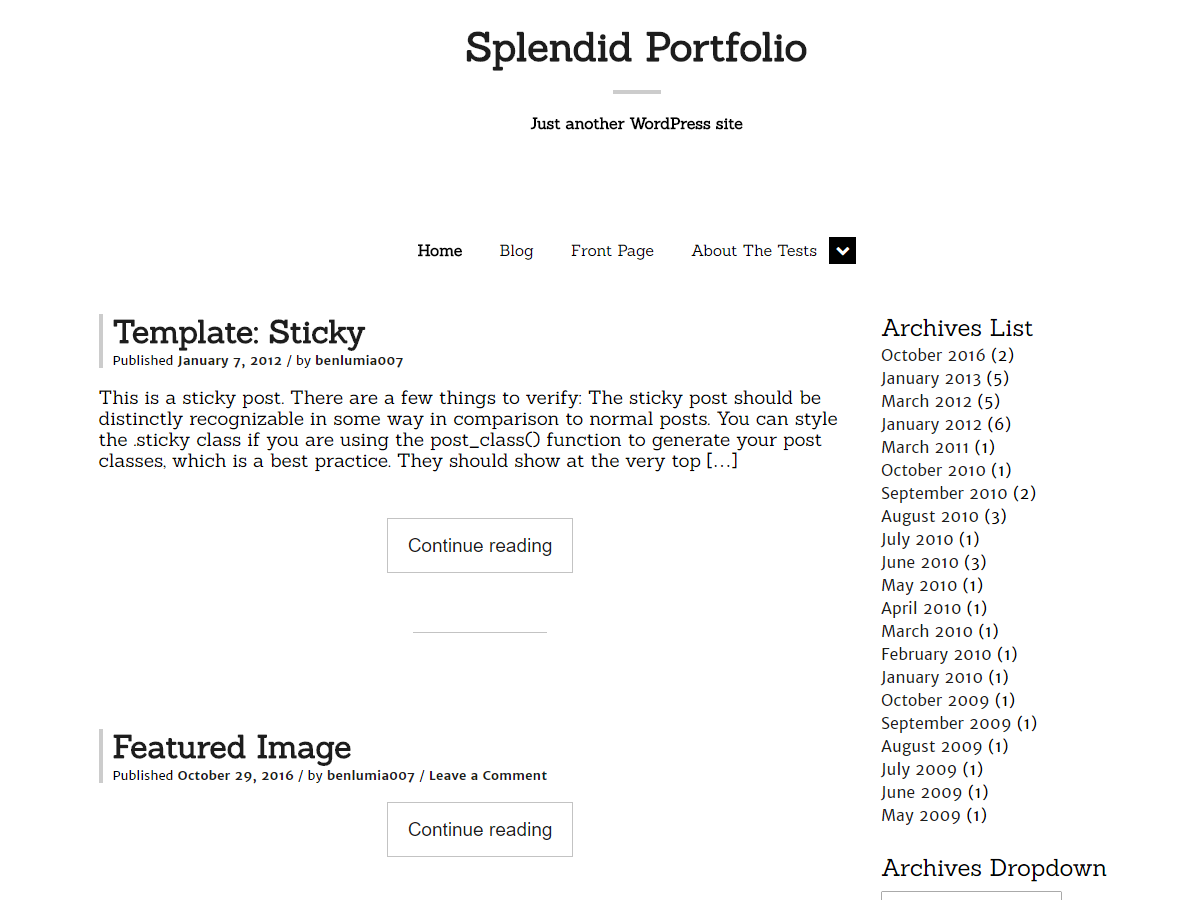
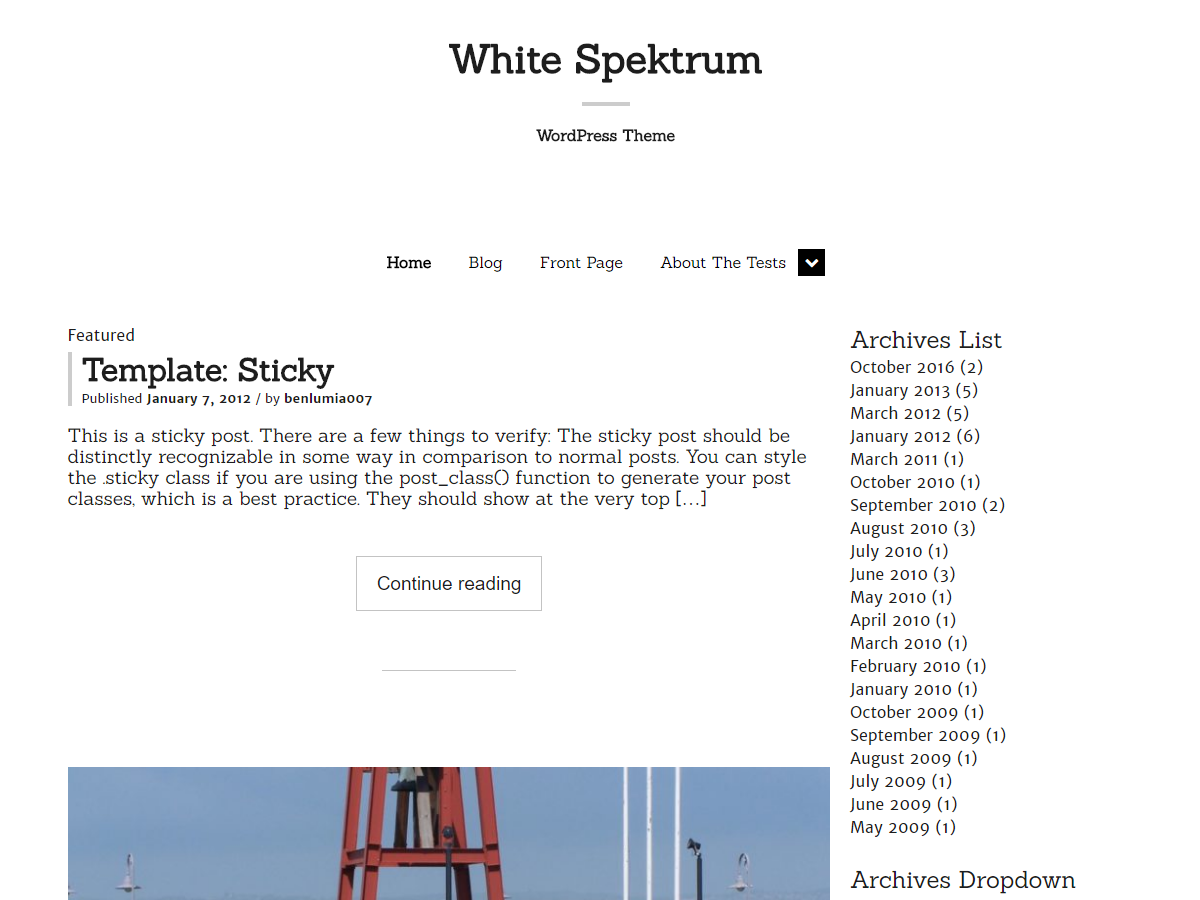
Version: 0.1.9

diff --git a/style.css b/style.css
@@ -3,12 +3,12 @@ Theme Name: White Spektrum
 Theme URI: https://www.lumiathemes.com/portfolio/white-spektrum/
 Author: Benjamin Lu
 Author URI: https://www.lumiathemes.com/
-Description: White Spektrum is a fully responsive WordPress theme tht looks great on smartphones and tablets. Custom Background, Custom Header is now available so that you can choose more features for this theme. This theme also supports new features that allows you to choose different layouts from blog layout, page layout and custom layout if you choose to use sidebars or no sidebars. 
+Description: White Spektrum is a fully responsive WordPress theme that looks great on smartphones and tablets. Custom Background, Custom Header is now available so that you can choose more features for this theme. This theme also supports new features that allows you to choose different layouts from blog layout, page layout and custom layout if you choose to use sidebars or no sidebars. 
 License: GNU General Public License v3 or later
 License URI: http://www.gnu.org/licenses/gpl-3.0.html
 Tags: custom-background, custom-colors, custom-header, left-sidebar, one-column, right-sidebar, two-columns, sticky-post, threaded-comments, theme-options, translation-ready
 Text Domain: white-spektrum
-Version: 0.1.8
+Version: 0.1.9
 
 This theme, like WordPress, is licensed under the GPL.
 Use it to make something cool, have fun, and share what you've learned with others.
@@ -579,9 +579,11 @@ q {
 }
 
 blockquote {
-    font-size: 24px;
+
+    font-family: 'Sanchez', serif;
+    font-size: 22px;
     font-weight: bold;
-    margin: 1.5em 2em 1.5em 2em;
+    margin: 0 auto;
     position: relative;
     text-align: center;
 }
@@ -591,7 +593,7 @@ blockquote::before {
     font-size: 24px;
     font-family: 'FontAwesome';
     position: absolute;
-    left: -2em;
+    left: -1.1em;
     color: #000000;;
 }
 
@@ -600,7 +602,7 @@ blockquote::after {
     font-size: 24px;
     font-family: 'FontAwesome';
     position: absolute;
-    right: -2em;
+    right: -1.1em;
     top: 0;
     color: #000000;;
 }
@@ -1169,10 +1171,10 @@ span.page-numbers {
     font-size: 1.250em;
 }
 
-.entry-metadata .published {
+.entry-metadata .published,
+.entry-metadata .entry-comments {
     display: block;
-    font-size: 14px;
-    font-style: italic;
+    font-size: 12px;
 }
 
 .entry-excerpt {
@@ -1400,7 +1402,8 @@ ol.children {
 	border: 1px solid #c3c3c3;
 }
 
-.form-submit .submit:hover {
+.form-submit .submit:hover,
+.form-submit .submit:focus {
 	border-color: #000;
 	border-width: 1px;
     color: #000000;

diff --git a/css/editor-styles.css b/css/editor-styles.css
@@ -1,0 +1,66 @@
+/*
+================================================================================================
+White Spektrum - editor-styles.css
+================================================================================================
+This is the most generic template file in a WordPress theme and is one of the two required files 
+for a theme (the other style.css). The index.php template file is flexible. It can be used to 
+include all references to the header, content, widget, footer and any other pages created in 
+WordPress. Or it can be divided into modular template files, each taking on part of the workload. 
+If you do not provide other template files, WordPress may have default files or functions to 
+perform their jobs.
+
+@package        White Spektrum WordPress Theme
+@copyright      Copyright (C) 2016. Benjamin Lu
+@license        GNU General Public License v2 or later (http://www.gnu.org/licenses/gpl-2.0.html)
+@author         Benjamin Lu (https://www.lumiathemes.com/)
+================================================================================================
+*/
+
+body {
+    font-family: 'Merriweather Sans', sans-serif;
+}
+
+h1 {
+    font-family: 'Sanchez', serif;
+}
+
+ pre {
+ 	background: #eee;
+ 	font-family: "Courier 10 Pitch", Courier, monospace;
+ 	font-size: 15px;
+ 	font-size: 0.9375rem;
+ 	line-height: 1.6;
+ 	margin-bottom: 1.6em;
+ 	max-width: 100%;
+ 	overflow: auto;
+ 	padding: 1.6em;
+ }
+
+ blockquote:before,
+ blockquote:after,
+ q:before,
+ q:after {
+ 	content: "";
+ }
+
+ blockquote,
+ q {
+ 	quotes: "" "";
+ }
+
+ blockquote {
+ 	position: relative;
+ 	margin: 1.5em 2em 1.5em 2em;
+ 	padding: 0 1em;
+ 	font-size: 1.5em;
+ 	font-weight: 300;
+ 	line-height: 1.4em;
+ }
+
+ blockquote::before {
+ 	position: absolute;
+ 	left: -2em;
+ 	font-family: "FontAwesome";
+ 	content: "\f10d";
+ 	color: #ededed;
+ }

diff --git a/includes/customizer.php b/includes/customizer.php
@@ -21,7 +21,7 @@ perform their jobs.
 ================================================================================================
 Table of Content
 ================================================================================================
- 1.0 - Load Customize Radio Image Class
+ 1.0 - Customize Custom Classes (Setup)
  2.0 - Customize Register (Setup)
  3.0 - Customize Register (Validation)
  4.0 - Customize Register (Preview)
@@ -32,14 +32,56 @@ Table of Content
 ================================================================================================
 Table of Content
 ================================================================================================
- 1.0 - Customize Radio Image
- 2.0 - Customize Register (Setup)
- 3.0 - Customize Register (Validation)
- 4.0 - Customize Register (Preview)
+ 1.0 - Custom Classes (Setup)
 ================================================================================================
 */
 function white_spektrum_custom_classes_setup($wp_customize) {
-    require_once(get_template_directory() . '/customize/customize-radio-image.php');
+    class White_Spektrum_Control_Radio_Image extends WP_Customize_Control {
+        public $type = 'radio-image';
+
+        public function enqueue() {
+            wp_enqueue_script('white-spektrum-customize-controls', get_template_directory_uri() . '/js/customize-controls.js', array('jquery'));
+             wp_enqueue_style('white-spektrum-customize-controls', get_template_directory_uri() . '/css/customize-controls.css');
+        }
+
+        public function to_json() {
+            parent::to_json();
+
+            // We need to make sure we have the correct image URL.
+            foreach ( $this->choices as $value => $args )
+                $this->choices[ $value ]['url'] = esc_url( sprintf( $args['url'], get_template_directory_uri(), get_stylesheet_directory_uri() ) );
+
+            $this->json['choices'] = $this->choices;
+            $this->json['link']    = $this->get_link();
+            $this->json['value']   = $this->value();
+            $this->json['id']      = $this->id;
+        }
+
+        public function content_template() { ?>
+
+            <# if ( ! data.choices ) {
+                return;
+            } #>
+
+            <# if ( data.label ) { #>
+                <span class="customize-control-title">{{ data.label }}</span>
+            <# } #>
+
+            <# if ( data.description ) { #>
+                <span class="description customize-control-description">{{{ data.description }}}</span>
+            <# } #>
+
+            <# _.each( data.choices, function( args, choice ) { #>
+                <label>
+                    <input type="radio" value="{{ choice }}" name="_customize-{{ data.type }}-{{ data.id }}" {{{ data.link }}} <# if ( choice === data.value ) { #> checked="checked" <# } #> />
+
+                    <span class="screen-reader-text">{{ args.label }}</span>
+
+                    <img src="{{ args.url }}" alt="{{ args.label }}" />
+                </label>
+            <# } ) #>
+        <?php }
+    }
     
     $wp_customize->register_control_type('White_Spektrum_Control_Radio_Image');
 }

diff --git a/template-parts/content-single.php b/template-parts/content-single.php
@@ -14,14 +14,22 @@ content. This content-single.php is the main content that will be displayed.
 */
 ?>
 <article id="post-<?php the_ID(); ?>" <?php post_class(); ?>>
-        <div class="post-thumbniail-banner">
-            <?php the_post_thumbnail('white-spektrum-banner'); ?>
-        </div>
-        <header class="entry-header">
-            <?php the_title(sprintf('<h1 class="entry-title"><a href="%s">', esc_url(get_permalink())), '</a></h1>'); ?>
-            <span class="post-index-metadata"><?php white_spektrum_index_entry_posted_on(); ?></span>
-        </header>
-        <?php the_content(); ?>
-        <?php wp_link_pages(); ?>
+    <div class="post-thumbniail-banner">
+        <?php the_post_thumbnail('white-spektrum-banner'); ?>
+    </div>
+    <header class="entry-header">
+        <?php the_title(sprintf('<h1 class="entry-title"><a href="%s">', esc_url(get_permalink())), '</a></h1>'); ?>
+    </header>
+    <div class="entry-excerpt">
+        <?php the_excerpt(); ?>
+    </div>
+    <div class="entry-metadata">
+        <?php white_spektrum_entry_posted_on(); ?>
+    </div>
+    <?php the_content(); ?>
+    <div class="entry-footer">
+        <?php white_spektrum_entry_taxonomies(); ?>
+    </div>
+    <?php wp_link_pages(); ?>
 </article>
 <?php comments_template(); ?>

diff --git a/functions.php b/functions.php
@@ -100,6 +100,8 @@ function white_spektrum_theme_setup() {
     // Enable and Activate Featured Image for White Spektrum.
     add_theme_support('post-thumbnails');
     add_image_size('white-spektrum-banner', 780, 250, true);
+    
+    add_editor_style('css/editor-styles.css');
 }
 add_action('after_setup_theme', 'white_spektrum_theme_setup');
 
